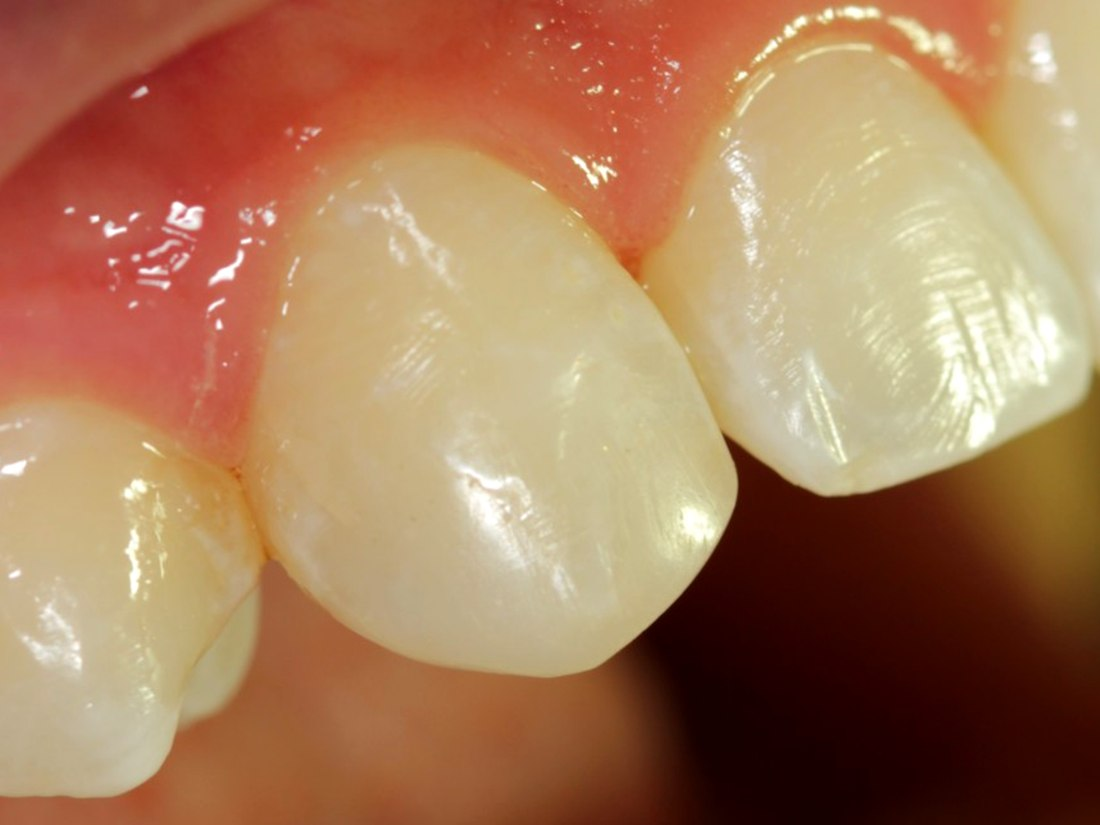
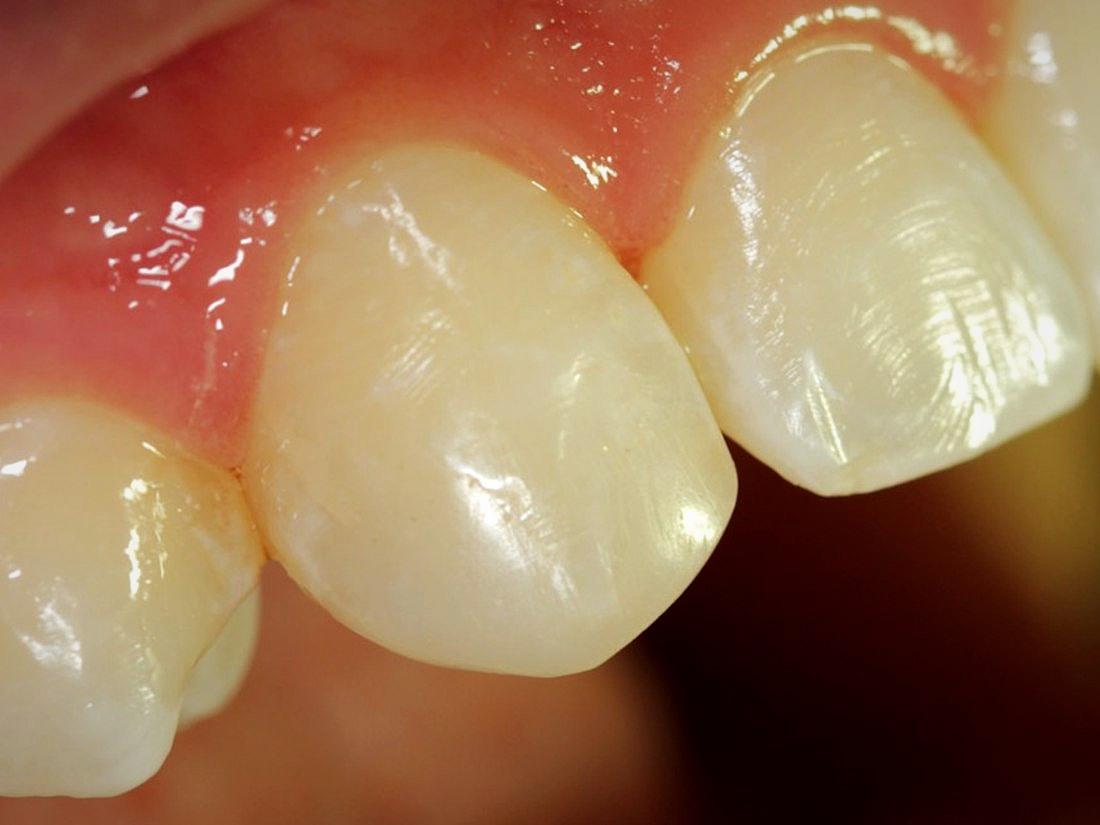
Troca casos clínicos: sai prótese, entram restaurações em posteriores

Changed region(s): [[0.68, 0.0, 1.0, 0.1212], [0.0, 0.9091, 0.1545, 1.0], [0.0, 0.0, 0.1545, 0.1212]]

diff --git a/index.html b/index.html
@@ -245,8 +245,8 @@ footer .l2 { padding-top: 24px; font-size: .82rem; display: flex; justify-conten
       <div class="bloco">
         <div>
           <div class="comparar" style="--pos:50%">
-            <img src="img/protese-2.jpg" alt="Depois do tratamento" loading="lazy">
-            <img class="antes" src="img/protese-1.jpg" alt="Antes do tratamento" loading="lazy">
+            <img src="img/restauracao-2.jpg" alt="Depois do tratamento" loading="lazy">
+            <img class="antes" src="img/restauracao-1.jpg" alt="Antes do tratamento" loading="lazy">
             <span class="linha"><span class="puxador"><svg viewBox="0 0 22 10" fill="none" stroke="currentColor" stroke-width="1.5" stroke-linecap="round" stroke-linejoin="round"><path d="M6 1 2 5l4 4M16 1l4 4-4 4"/></svg></span></span>
             <span class="rotulo esq">Antes</span><span class="rotulo dir">Depois</span>
             <input type="range" min="0" max="100" value="50" aria-label="Arraste para comparar antes e depois">
